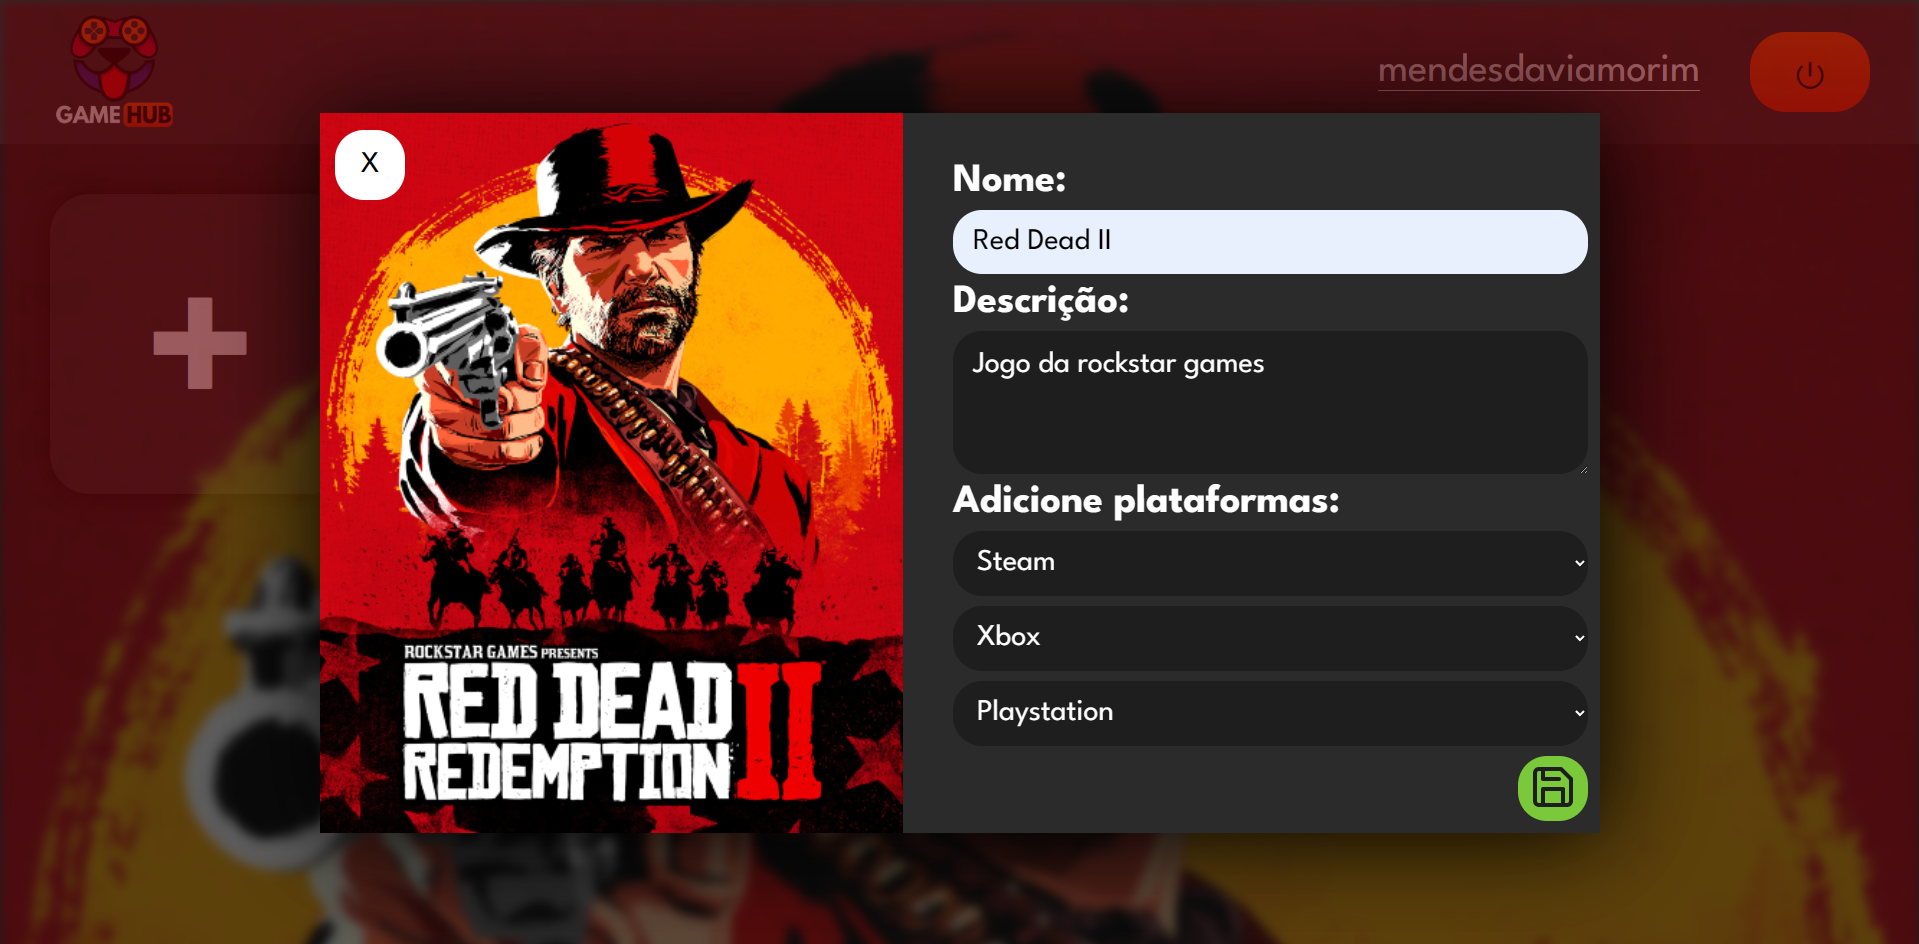
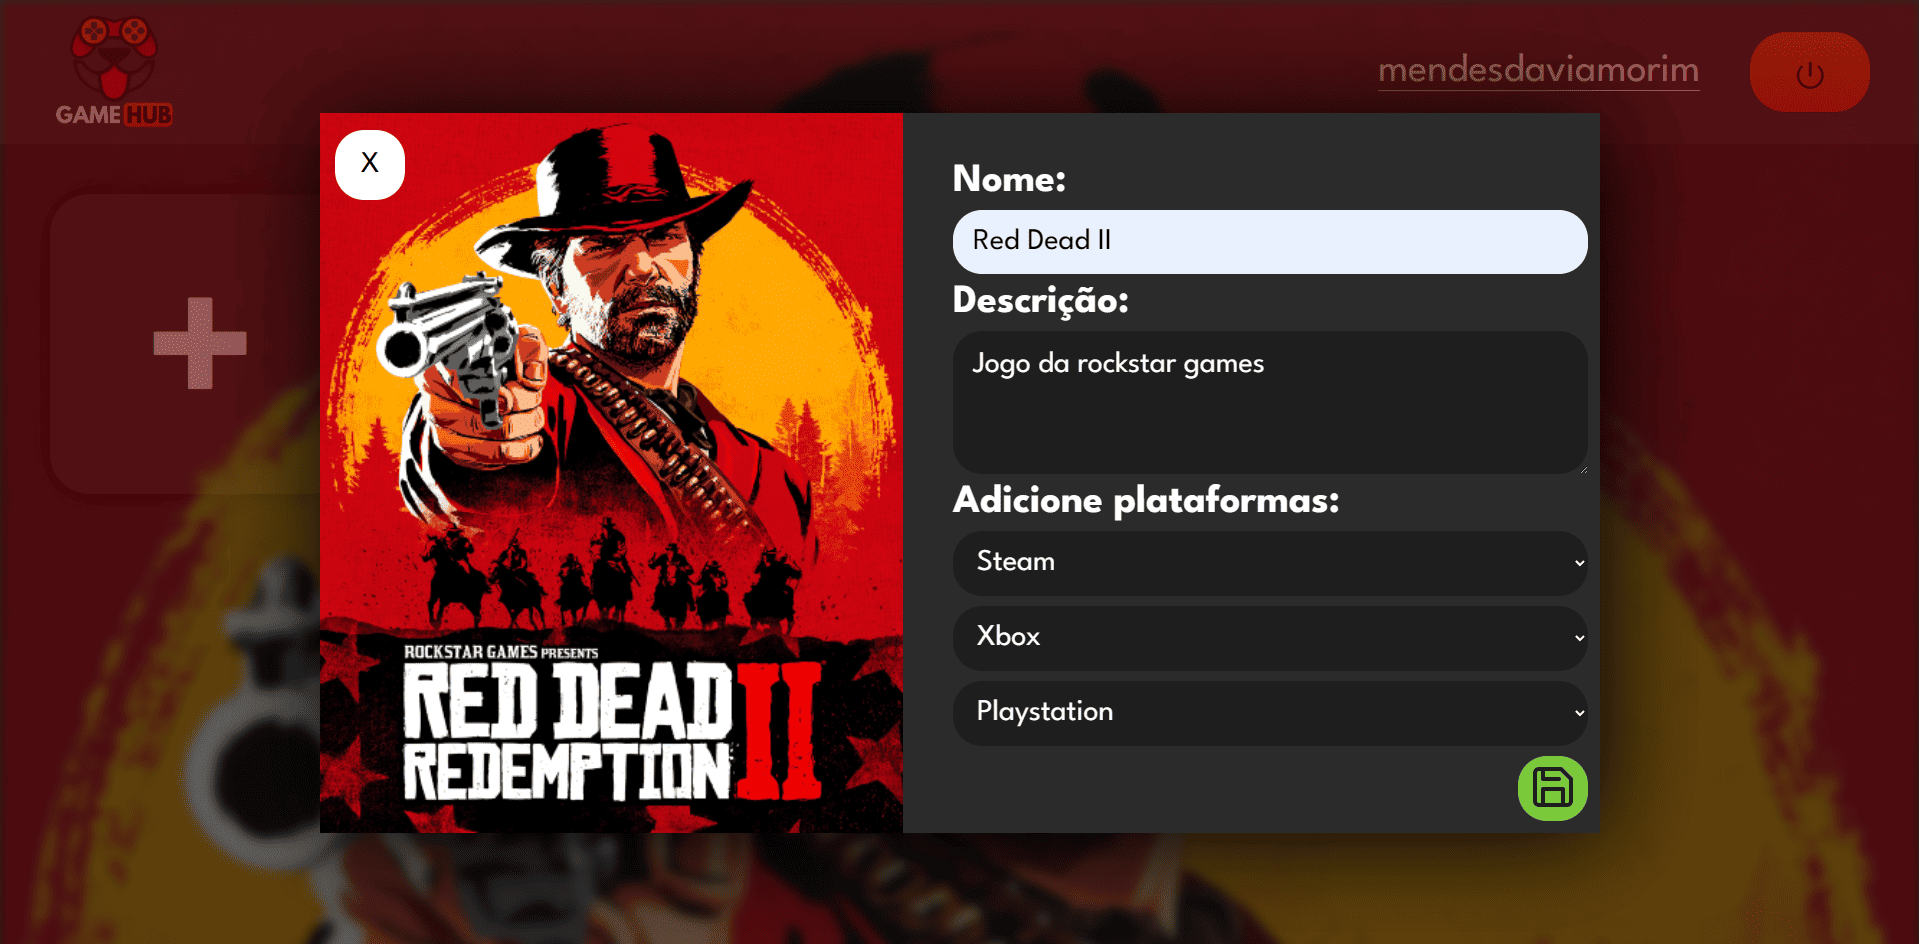
responsividade melhorada para todos os dispositivos menos nest hub

diff --git a/css/style.css b/css/style.css
@@ -315,7 +315,49 @@ a {
 
 /* RESPONSIVIDADE */
 
-@media (max-width: 860px) {
+@media (max-width: 1280px)
+{
+
+    .imgInicio
+    {
+        padding: 0px;
+    }
+    .desc
+    {
+        width: 100%;
+        height: 100%;
+        padding-top: 40px;
+    }
+    #bodyT
+    {
+        font-size: 110px;
+        line-height: 68px;
+    }
+    #footT
+    {
+        font-size: 30px;
+    }
+
+    #sobre
+    {
+        /* padding-top: 270px; */
+        height: 100%;
+    }
+
+    #sobre p
+    {
+        font-size: 25px;
+    }
+
+    #projetos
+    {
+        height: 100%;
+        padding: 50px;
+        padding-top: 120px;
+    }
+}
+
+@media (max-width: 1024px){
     header {
         height: 100px;
         gap: 0;
@@ -380,7 +422,7 @@ a {
     }
 
     .imgInicio {
-        margin-left: 50px;
+        margin-left: 0;
         margin-top: 30px;
     }
 
@@ -432,16 +474,20 @@ a {
     .projectCard h1 {
         font-size: 30px;
     }
+    #projetos
+    {
+        height: 100vh;
+    }
 
 }
 
-@media (max-width: 390px) {
+@media (max-width: 576px) {
     nav {
-        width: 200px;
+        width: 250px;
     }
 
     .navLinks {
-        font-size: 11px;
+        font-size: 15px;
         height: 40px;
     }
 
@@ -468,7 +514,8 @@ a {
     #projetos
     {
     background: repeating-radial-gradient(farthest-corner at 1228% 150%, #0d0d0d 0, #525252 575px, #cccccc 575px);
-
+        /* padding-top: 0px; */
+        
     }
 
     .projectCard {
@@ -484,5 +531,17 @@ a {
     }
     .imgProject{
         height: 70%;
+    }
+}
+
+@media (max-width: 390px)
+{
+    nav
+    {
+        width: 200px;
+    }
+    .navLinks
+    {
+        font-size: 12px;
     }
 }
